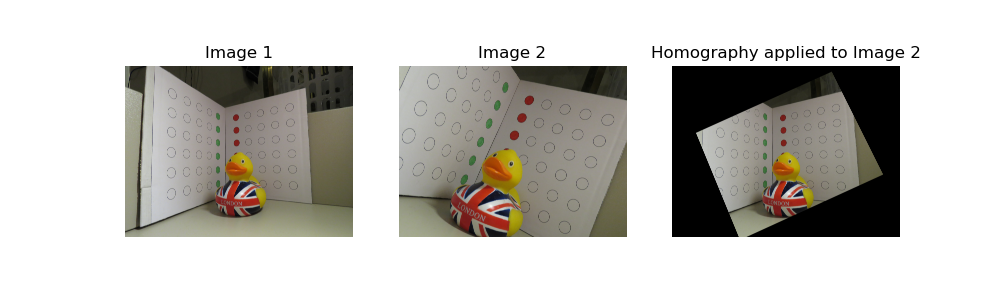
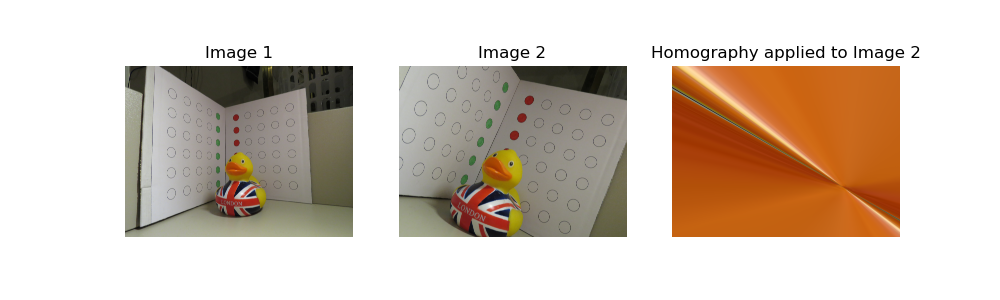
Updated Code

Changed region(s): [[0.651, 0.21, 0.899, 0.81]]

diff --git a/cw1/4a_homographyMatrix/main_threshold.py b/cw1/4a_homographyMatrix/main_threshold.py
@@ -1,0 +1,169 @@
+from copy import deepcopy
+import csv
+import math
+
+import numpy as np
+import cv2 as cv
+from matplotlib import pyplot as plt
+
+MIN_MATCH_COUNT = 10
+FILE_1 = f"./data/0.JPG"
+FILE_2 = f"./data/2.JPG"
+
+PERM_LUT = [
+    (0.5, 0.9),
+    (0.5, 0.84),
+    (0.5, 0.86),
+    (0.5, 0.88),
+    (0.49, 0.9),
+    (0.49, 0.84),
+    (0.49, 0.86),
+    (0.49, 0.88),
+    (0.48, 0.9),
+    (0.48, 0.84),
+    (0.48, 0.86),
+    (0.48, 0.88),
+    (0.47, 0.9),
+    (0.47, 0.84),
+    (0.47, 0.86),
+    (0.47, 0.88),
+    (0.46, 0.9),
+    (0.46, 0.84),
+    (0.46, 0.85),
+    (0.46, 0.84),
+    (0.45, 0.84),
+    (0.44, 0.82),
+    (0.45, 0.82),
+    (0.46, 0.82),
+    (0.47, 0.82),
+]
+
+def threshold_search(sorted_good, sorted_bad, ratio_bad, upper_limit_bad=1.0):
+    sorted_bad = [item for item in sorted_bad if item[1]<=upper_limit_bad]
+    good_length = len(sorted_good)
+    bad_length = len(sorted_bad)
+    required_bad = math.ceil(ratio_bad * good_length)
+    if required_bad > bad_length:
+        raise ValueError(
+            "Required Length of bad points is smaller than total number of bad points"
+        )
+    utilised_good = sorted_good[:good_length-required_bad]
+    _, u_good_ratio = list(zip(*utilised_good))
+    utilised_bad = sorted_bad[-required_bad:]
+    _, u_bad_ratio = list(zip(*utilised_bad))
+    average_distance_good = np.mean(u_good_ratio)
+    average_distance_bad = np.mean(u_bad_ratio)
+
+    final_utilised = utilised_good
+    final_utilised[-required_bad:] = utilised_bad
+    final_pts, final_ratios = list(zip(*final_utilised))
+    average_distance_final = np.mean(final_ratios)
+
+    return_dict = {
+        "total_initial": good_length,
+        "total_good": len(utilised_good),
+        "average_good": average_distance_good,
+        "total_bad": len(utilised_bad),
+        "average_bad": average_distance_bad,
+        "final_pts": final_pts,
+        "average_final": average_distance_final
+    }
+    return return_dict
+
+if __name__ == "__main__":
+    img1_og = cv.imread(FILE_1)
+    img2_og = cv.imread(FILE_2)
+
+    img1 = cv.cvtColor(img1_og, cv.COLOR_BGR2GRAY)  # queryImage
+    img2 = cv.cvtColor(img2_og, cv.COLOR_BGR2GRAY)  # trainImage
+
+    # Initiate SIFT detector
+    sift = cv.SIFT_create()
+
+    # find the keypoints and descriptors with SIFT
+    kp1, des1 = sift.detectAndCompute(img1, None)
+    kp2, des2 = sift.detectAndCompute(img2, None)
+
+    print("Length of KPs:")
+    print(len(kp1), len(kp2))
+
+
+    FLANN_INDEX_KDTREE = 1
+    index_params = dict(algorithm=FLANN_INDEX_KDTREE, trees=5)
+    search_params = dict(checks=50)
+
+    flann = cv.FlannBasedMatcher(index_params, search_params)
+
+    matches = flann.knnMatch(des1, des2, k=2)
+    # store all the good matches as per Lowe's ratio test.
+    print(len(matches))
+    exit()
+    good_pts = []
+    bad_pts = []
+    for m, n in matches:
+        if m.distance < 0.8 * n.distance:
+            good_pts.append((m, m.distance/n.distance))
+        else:
+            bad_pts.append((m, m.distance/n.distance))
+
+    good_pts.sort(key=lambda tup: tup[1])
+    bad_pts.sort(key=lambda tup: tup[1])
+
+    if len(good_pts) <= MIN_MATCH_COUNT:
+        raise ValueError("Insufficient Matches.")
+
+    for num, (ratio_bad, upper_limit_bad) in enumerate(PERM_LUT):
+        print(f"Performing calculations for ratio {ratio_bad} and bad upper limit {upper_limit_bad}.")
+        output_dict = threshold_search(good_pts, bad_pts, ratio_bad, upper_limit_bad)
+        final_pts = output_dict["final_pts"]
+        avg_good = output_dict["average_good"]
+        avg_bad = output_dict["average_bad"]
+        avg_final = output_dict["average_final"]
+        total_good = output_dict["total_good"]
+        total_bad = output_dict["total_bad"]
+        init_length = output_dict["total_initial"]
+        src_pts = np.float32([kp1[m.queryIdx].pt for m in final_pts]).reshape(-1, 1, 2)
+        dst_pts = np.float32([kp2[m.trainIdx].pt for m in final_pts]).reshape(-1, 1, 2)
+
+        M, mask = cv.findHomography(src_pts, dst_pts, cv.RANSAC, 5.0)
+
+        #######################################################################
+        ### APPLY HOMOGRAPHY MATRIX BACK TO IMAGE
+        img_test = cv.cvtColor(cv.imread(FILE_2), cv.COLOR_BGR2RGB)
+        img_OG = cv.cvtColor(cv.imread(FILE_1), cv.COLOR_BGR2RGB)
+        (h, w) = img_test.shape[:2]
+
+        transformed_img = cv.warpPerspective(img_test, np.linalg.inv(M), (w, h))
+        # create figure
+        fig = plt.figure(num, figsize=(10, 3))
+
+        # Adds a subplot at the 1st position
+        fig.add_subplot(1, 3, 1)
+
+        # showing image
+        plt.imshow(img_OG)
+        plt.axis("off")
+        plt.title("Image 1")
+        # Adds a subplot at the 2nd position
+        fig.add_subplot(1, 3, 2)
+
+        # showing image
+        plt.imshow(img_test)
+        plt.axis("off")
+        plt.title("Image 2")
+
+        # Adds a subplot at the 3rd position
+        fig.add_subplot(1, 3, 3)
+
+        # showing image
+        plt.imshow(transformed_img)
+        plt.axis('off')
+        plt.title("Homography applied to Image 2")
+        output_path = f"output/{ratio_bad}_{upper_limit_bad}.png"
+        plt.savefig(output_path)
+        plt.close()
+        with open("result.csv", "a" , newline="") as csvfile:
+            csv_writer = csv.writer(csvfile, delimiter=",")
+            csv_writer.writerow([ratio_bad, upper_limit_bad, init_length, total_good, total_bad, avg_good, avg_bad, avg_final, output_path])
+
+    print("Completed.")

diff --git a/cw1/5_stereoRect/main.py b/cw1/5_stereoRect/main.py
@@ -1,5 +1,5 @@
 # https://www.andreasjakl.com/understand-and-apply-stereo-rectification-for-depth-maps-part-2/
-
+from copy import deepcopy
 import numpy as np
 import cv2 as cv2
 from matplotlib import pyplot as plt
@@ -55,9 +55,11 @@ pts2 = pts2[mask.ravel()==1]
 def drawlines(img1src, img2src, lines, pts1src, pts2src):
     ''' img1 - image on which we draw the epilines for the points in img2
         lines - corresponding epilines '''
+    img1_copy = deepcopy(img1src)
+    img2_copy = deepcopy(img2src)
     r, c, _ = img1src.shape
-    img1color = img1src
-    img2color = img2src
+    img1color = img1_copy
+    img2color = img2_copy
     # img1color = cv2.cvtColor(img1src, cv2.COLOR_GRAY2BGR)
     # img2color = cv2.cvtColor(img2src, cv2.COLOR_GRAY2BGR)
     # Edit: use the same random seed so that two images are comparable!

diff --git a/cw1/2_keypointMatching/automation.py b/cw1/2_keypointMatching/automation.py
@@ -1,3 +1,4 @@
+from time import time
 from typing import Tuple, Union
 from cv2 import CV_8SC2
 import numpy as np
@@ -78,6 +79,7 @@ def correspondences_automation(
 
 
 if __name__ == "__main__":
+    start_time = time()
     image_1 = "data/LEFT_IMG.JPG"
     image_2 = "data/RIGHT_IMG.JPG"
     ogimg1 = cv2.imread(image_1)
@@ -85,4 +87,7 @@ if __name__ == "__main__":
     ret, src, dst, src_bad, dst_bad = correspondences_automation(
         ogimg1, ogimg2
     )
-    print(src, dst, src_bad, dst_bad)
+    end_time = time()
+    # print(src, dst, src_bad, dst_bad)
+    print(len(src))
+    print("time:", end_time-start_time)
